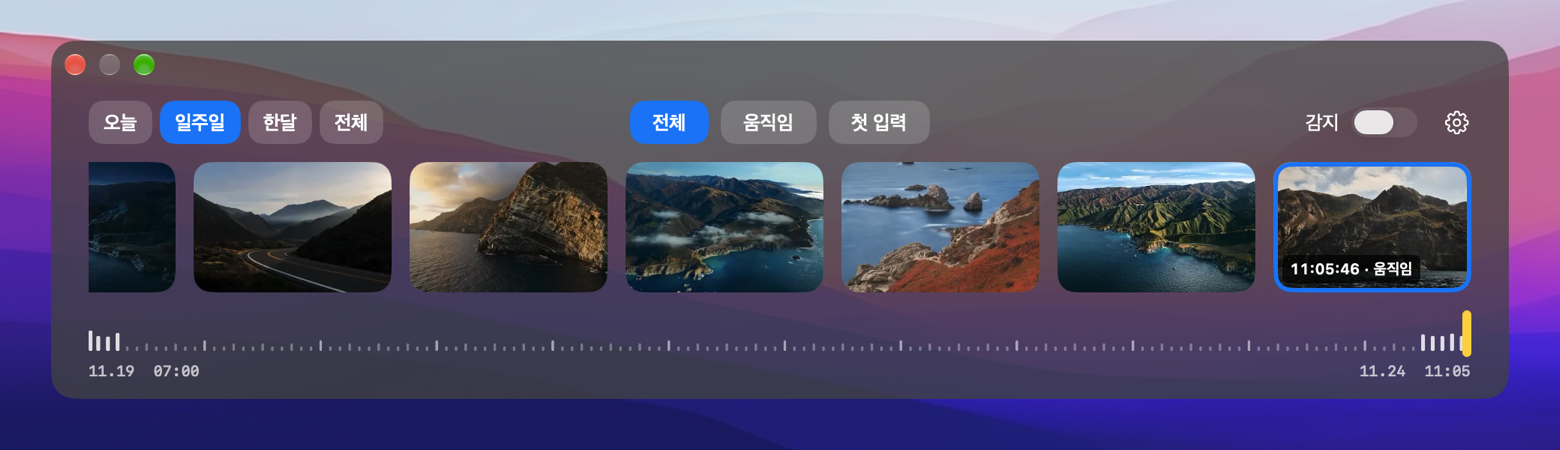
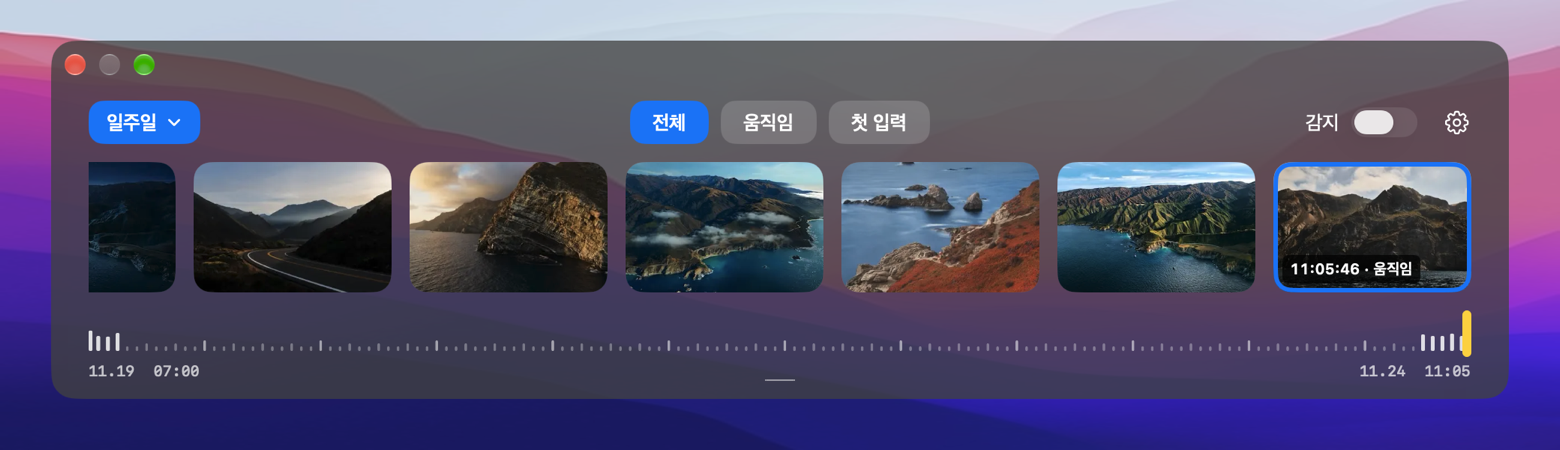
자리기록 0.2.5 기간 메뉴를 최근 일주일로 시작

Changed region(s): [[0.0308, 0.2178, 0.2462, 0.3422]]

diff --git a/Sources/LibraryView.swift b/Sources/LibraryView.swift
@@ -3,7 +3,7 @@ import SwiftUI
 
 struct LibraryView: View {
     @ObservedObject var model: DeskModel
-    @State private var period: ArchivePeriod = .all
+    @State private var period: ArchivePeriod = .week
     @State private var referenceDate = Date()
     @State private var kind: CaptureKind?
     @State private var settings = false
@@ -14,12 +14,25 @@ struct LibraryView: View {
         VStack(spacing: 0) {
             ZStack {
                 HStack {
-                    HStack(spacing: 5) {
-                        ForEach(ArchivePeriod.allCases, id: \.self) { choice in
-                            chip(choice.rawValue, selected: period == choice, padding: 10) { period = choice }
-                                .accessibilityLabel("기간 " + choice.rawValue)
+                    Menu {
+                        Picker("조회 기간", selection: $period) {
+                            ForEach(ArchivePeriod.allCases, id: \.self) { choice in
+                                Text(choice.rawValue).tag(choice)
+                            }
+                        }.pickerStyle(.inline).labelsHidden()
+                    } label: {
+                        HStack(spacing: 6) {
+                            Text(period.rawValue)
+                            Image(systemName: "chevron.down").font(.system(size: 9, weight: .bold))
                         }
+                        .font(.system(size: 13, weight: .semibold))
+                        .padding(.horizontal, 12).frame(height: 29)
+                        .background(GlassInk.blue, in: RoundedRectangle(cornerRadius: 10))
+                        .contentShape(Rectangle())
                     }
+                    .menuStyle(.button).buttonStyle(.plain).menuIndicator(.hidden).fixedSize()
+                    .accessibilityLabel("조회 기간").accessibilityValue(period.rawValue)
+                    .accessibilityIdentifier("archive.period")
                     Spacer()
                     Toggle("감지", isOn: Binding(get: { model.active }, set: { desired in
                         if desired != model.active { model.toggle() }
@@ -55,7 +68,7 @@ struct LibraryView: View {
                 }.font(.callout).fixedSize(horizontal: false, vertical: true)
                 .padding(.horizontal, GalleryLayout.inset).padding(.vertical, 5)
             }
-            ArchiveBrowser(index: index, isFiltered: kind != nil || period != .all, active: model.active) {
+            ArchiveBrowser(index: index, isFiltered: !model.records.isEmpty && (kind != nil || period != .all), active: model.active) {
                 period = .all
                 kind = nil
             }
@@ -80,10 +93,10 @@ struct LibraryView: View {
         }
     }
 
-    private func chip(_ title: String, selected: Bool, padding: CGFloat = 15, action: @escaping () -> Void) -> some View {
+    private func chip(_ title: String, selected: Bool, action: @escaping () -> Void) -> some View {
         Button(action: action) {
             Text(title).font(.system(size: 13, weight: .semibold))
-                .fixedSize().padding(.horizontal, padding).frame(height: 29)
+                .fixedSize().padding(.horizontal, 15).frame(height: 29)
                 .background(selected ? GlassInk.blue : GlassInk.capsule, in: RoundedRectangle(cornerRadius: 10))
         }.buttonStyle(.plain).accessibilityAddTraits(selected ? .isSelected : [])
     }

diff --git a/Sources/ArchiveBrowser.swift b/Sources/ArchiveBrowser.swift
@@ -21,7 +21,7 @@ struct ArchiveBrowser: View {
                     VStack(spacing: 7) {
                         Text(isFiltered ? "이 조건에 맞는 기록이 없습니다" : "아직 촬영한 이미지가 없습니다")
                             .font(.system(size: 16, weight: .medium))
-                        if isFiltered { Button("필터 초기화", action: resetFilters).buttonStyle(.borderless) }
+                        if isFiltered { Button("전체 기록 보기", action: resetFilters).buttonStyle(.borderless) }
                         else {
                             Text(active ? "움직임이나 첫 입력을 기다리는 중입니다." : "감지를 켜면 이곳에 기록이 쌓입니다.")
                                 .font(.callout).foregroundStyle(GlassInk.secondary)

diff --git a/README.md b/README.md
@@ -4,7 +4,7 @@
 
 **macOS 14 이상 · Apple Silicon 및 Intel 지원**
 
-[자리기록 0.2.4 설치 파일 받기](https://github.com/sundaynighttt/desk-trace/releases/download/v0.2.4/DeskTrace-0.2.4.dmg) · [릴리스 기록](https://github.com/sundaynighttt/desk-trace/releases)
+[자리기록 0.2.5 설치 파일 받기](https://github.com/sundaynighttt/desk-trace/releases/download/v0.2.5/DeskTrace-0.2.5.dmg) · [릴리스 기록](https://github.com/sundaynighttt/desk-trace/releases)
 
 ![시험용 사진으로 본 자리기록의 일주일 보기](docs/gallery.png)
 
@@ -19,7 +19,7 @@
 
 ## 갤러리 사용법
 
-왼쪽에서 **오늘 · 일주일 · 한달 · 전체**를, 가운데에서 **전체 · 움직임 · 첫 입력**을 골라 기록을 좁힙니다. 일주일과 한달은 오늘을 포함한 최근 7일·30일입니다. 날짜는 맥의 현지 시각을 따르며 처음에는 전체 기록을 보여줍니다.
+갤러리를 처음 열면 왼쪽 기간 버튼에 **일주일**이 표시되고, 오늘을 포함한 최근 7일의 기록이 보입니다. 버튼을 누르면 **오늘 · 일주일 · 한달 · 전체** 중 하나를 선택할 수 있습니다. 가운데의 **전체 · 움직임 · 첫 입력**은 선택한 기간 안에서 기록 종류를 고릅니다. 한달은 오늘을 포함한 최근 30일이고, 날짜는 맥의 현지 시각을 따릅니다.
 
 - 갤러리는 사진 한 줄에 맞춘 최소 높이로 열립니다. 사진과 시간 눈금은 모두 왼쪽이 과거, 오른쪽이 최신입니다. 창을 열거나 필터를 바꾸면 해당 기간의 최신 사진이 보입니다. 사진을 가리키면 파란 테두리와 사진 왼쪽 아래의 촬영 시각·종류가 나타나고, 클릭하면 원래 비율로 크게 볼 수 있습니다.
 - 아래 시간 눈금 위에서 포인터를 움직이면 눈금이 물결처럼 솟고 해당 기록이 보입니다. 굵고 높은 노란 막대 하나가 현재 보고 있는 사진의 촬영 시각을 표시합니다. 창을 처음 열면 최신 사진의 시각을 가리키고, 기록이 없으면 표시되지 않습니다. 눈금을 클릭하면 선택이 고정되며 좌우 방향키로 인접 기록을 고를 수 있습니다. 사진은 같은 간격으로 놓이고 눈금은 실제 시간 간격을 나타냅니다.
@@ -28,7 +28,7 @@
 <details>
 <summary>화면 설계 기준</summary>
 
-기본 창에는 약 7장의 사진이 보입니다. 상단 버튼과 사진, 사진과 물결 눈금 영역 사이의 간격은 각각 12포인트입니다. 사진 줄과 시간 눈금의 좌우 여백은 상단과 같은 25포인트입니다. 지난번 창을 높게 늘려 두었어도 다음 실행에서는 한 줄 높이로 시작하며, 연 뒤에는 크기를 조절할 수 있습니다. 첫 기간 버튼 왼쪽과 설정 버튼 오른쪽에 같은 여백을 둡니다. 배경은 어두운 반투명이고, 선택한 필터는 파란색, 나머지는 반투명 회색입니다. 시스템에서 투명도 줄이기를 켜면 단색 배경을 사용하고, 동작 줄이기를 켜면 시간 눈금의 물결 높이를 고정합니다. 빈 목록, 필터 결과 없음, 한 장, 같은 시각의 여러 기록을 모두 지원합니다.
+기본 창에는 약 7장의 사진이 보입니다. 상단 버튼과 사진, 사진과 물결 눈금 영역 사이의 간격은 각각 12포인트입니다. 사진 줄과 시간 눈금의 좌우 여백은 상단과 같은 25포인트입니다. 지난번 창을 높게 늘려 두었어도 다음 실행에서는 한 줄 높이로 시작하며, 연 뒤에는 크기를 조절할 수 있습니다. 기간 버튼 왼쪽과 설정 버튼 오른쪽에 같은 여백을 둡니다. 배경은 어두운 반투명이고, 선택한 필터는 파란색, 나머지는 반투명 회색입니다. 시스템에서 투명도 줄이기를 켜면 단색 배경을 사용하고, 동작 줄이기를 켜면 시간 눈금의 물결 높이를 고정합니다. 빈 목록, 필터 결과 없음, 한 장, 같은 시각의 여러 기록을 모두 지원합니다.
 
 </details>
 
@@ -56,6 +56,6 @@
 ./scripts/package.sh
 ```
 
-빌드 시 공식 libwebp 소스를 내려받아 고정된 SHA-256 값을 확인합니다. 완성된 앱에는 인코더가 포함됩니다. 설치하는 맥에는 위 개발 도구가 필요하지 않습니다. 기본 산출물은 `.build/자리기록.app`과 `.build/DeskTrace-0.2.4.dmg`입니다. Apple Silicon과 Intel용 코드를 함께 포함합니다. 위 명령은 로컬 시험용 서명을 사용합니다. 공개 배포용 DMG는 빌드 후 `DESKTRACE_SIGN_IDENTITY`에 Developer ID Application 인증서를, `DESKTRACE_NOTARY_PROFILE`에 Apple 공증용 키체인 프로필 이름을 지정하고 `./scripts/release.sh`를 실행하면 생성됩니다. 스크립트는 앱과 DMG에 서명하고 Apple 공증을 받은 뒤 공증 확인표를 첨부해 검증합니다.
+빌드 시 공식 libwebp 소스를 내려받아 고정된 SHA-256 값을 확인합니다. 완성된 앱에는 인코더가 포함됩니다. 설치하는 맥에는 위 개발 도구가 필요하지 않습니다. 기본 산출물은 `.build/자리기록.app`과 `.build/DeskTrace-0.2.5.dmg`입니다. Apple Silicon과 Intel용 코드를 함께 포함합니다. 위 명령은 로컬 시험용 서명을 사용합니다. 공개 배포용 DMG는 빌드 후 `DESKTRACE_SIGN_IDENTITY`에 Developer ID Application 인증서를, `DESKTRACE_NOTARY_PROFILE`에 Apple 공증용 키체인 프로필 이름을 지정하고 `./scripts/release.sh`를 실행하면 생성됩니다. 스크립트는 앱과 DMG에 서명하고 Apple 공증을 받은 뒤 공증 확인표를 첨부해 검증합니다.
 
 WebP 라이브러리의 저작권 및 특허 안내는 `Notices/`와 앱 번들의 Resources에 포함됩니다.
